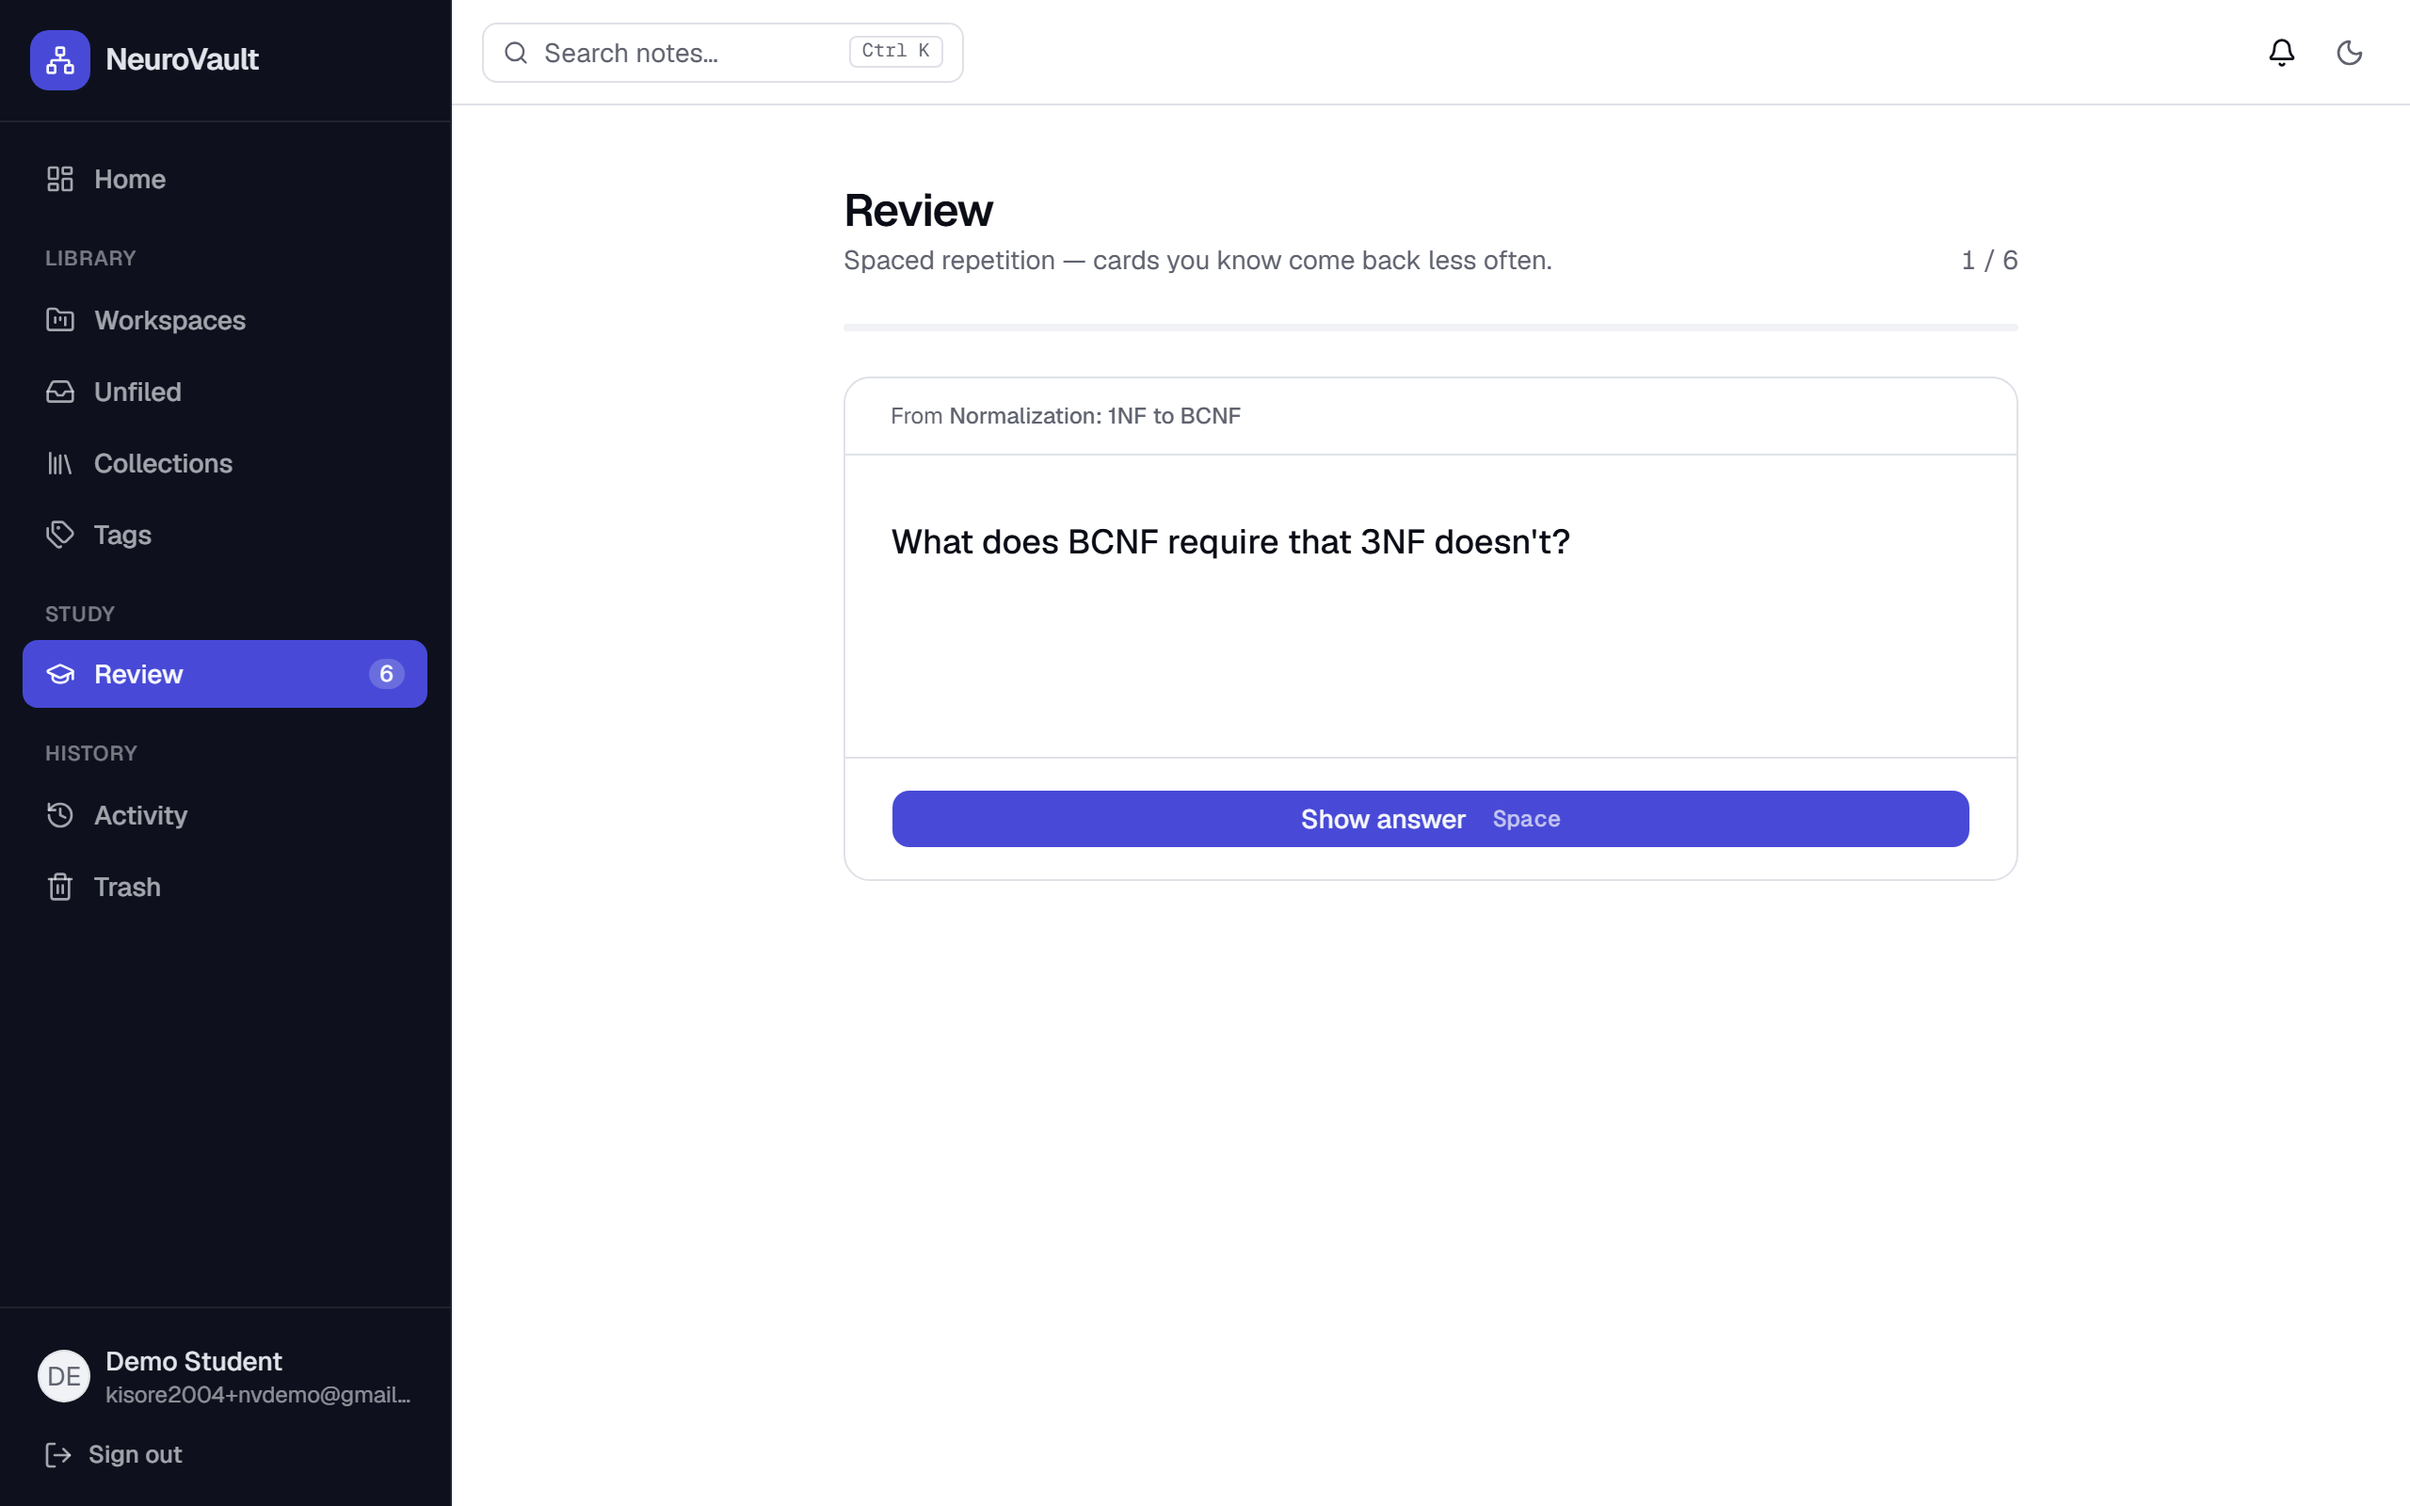
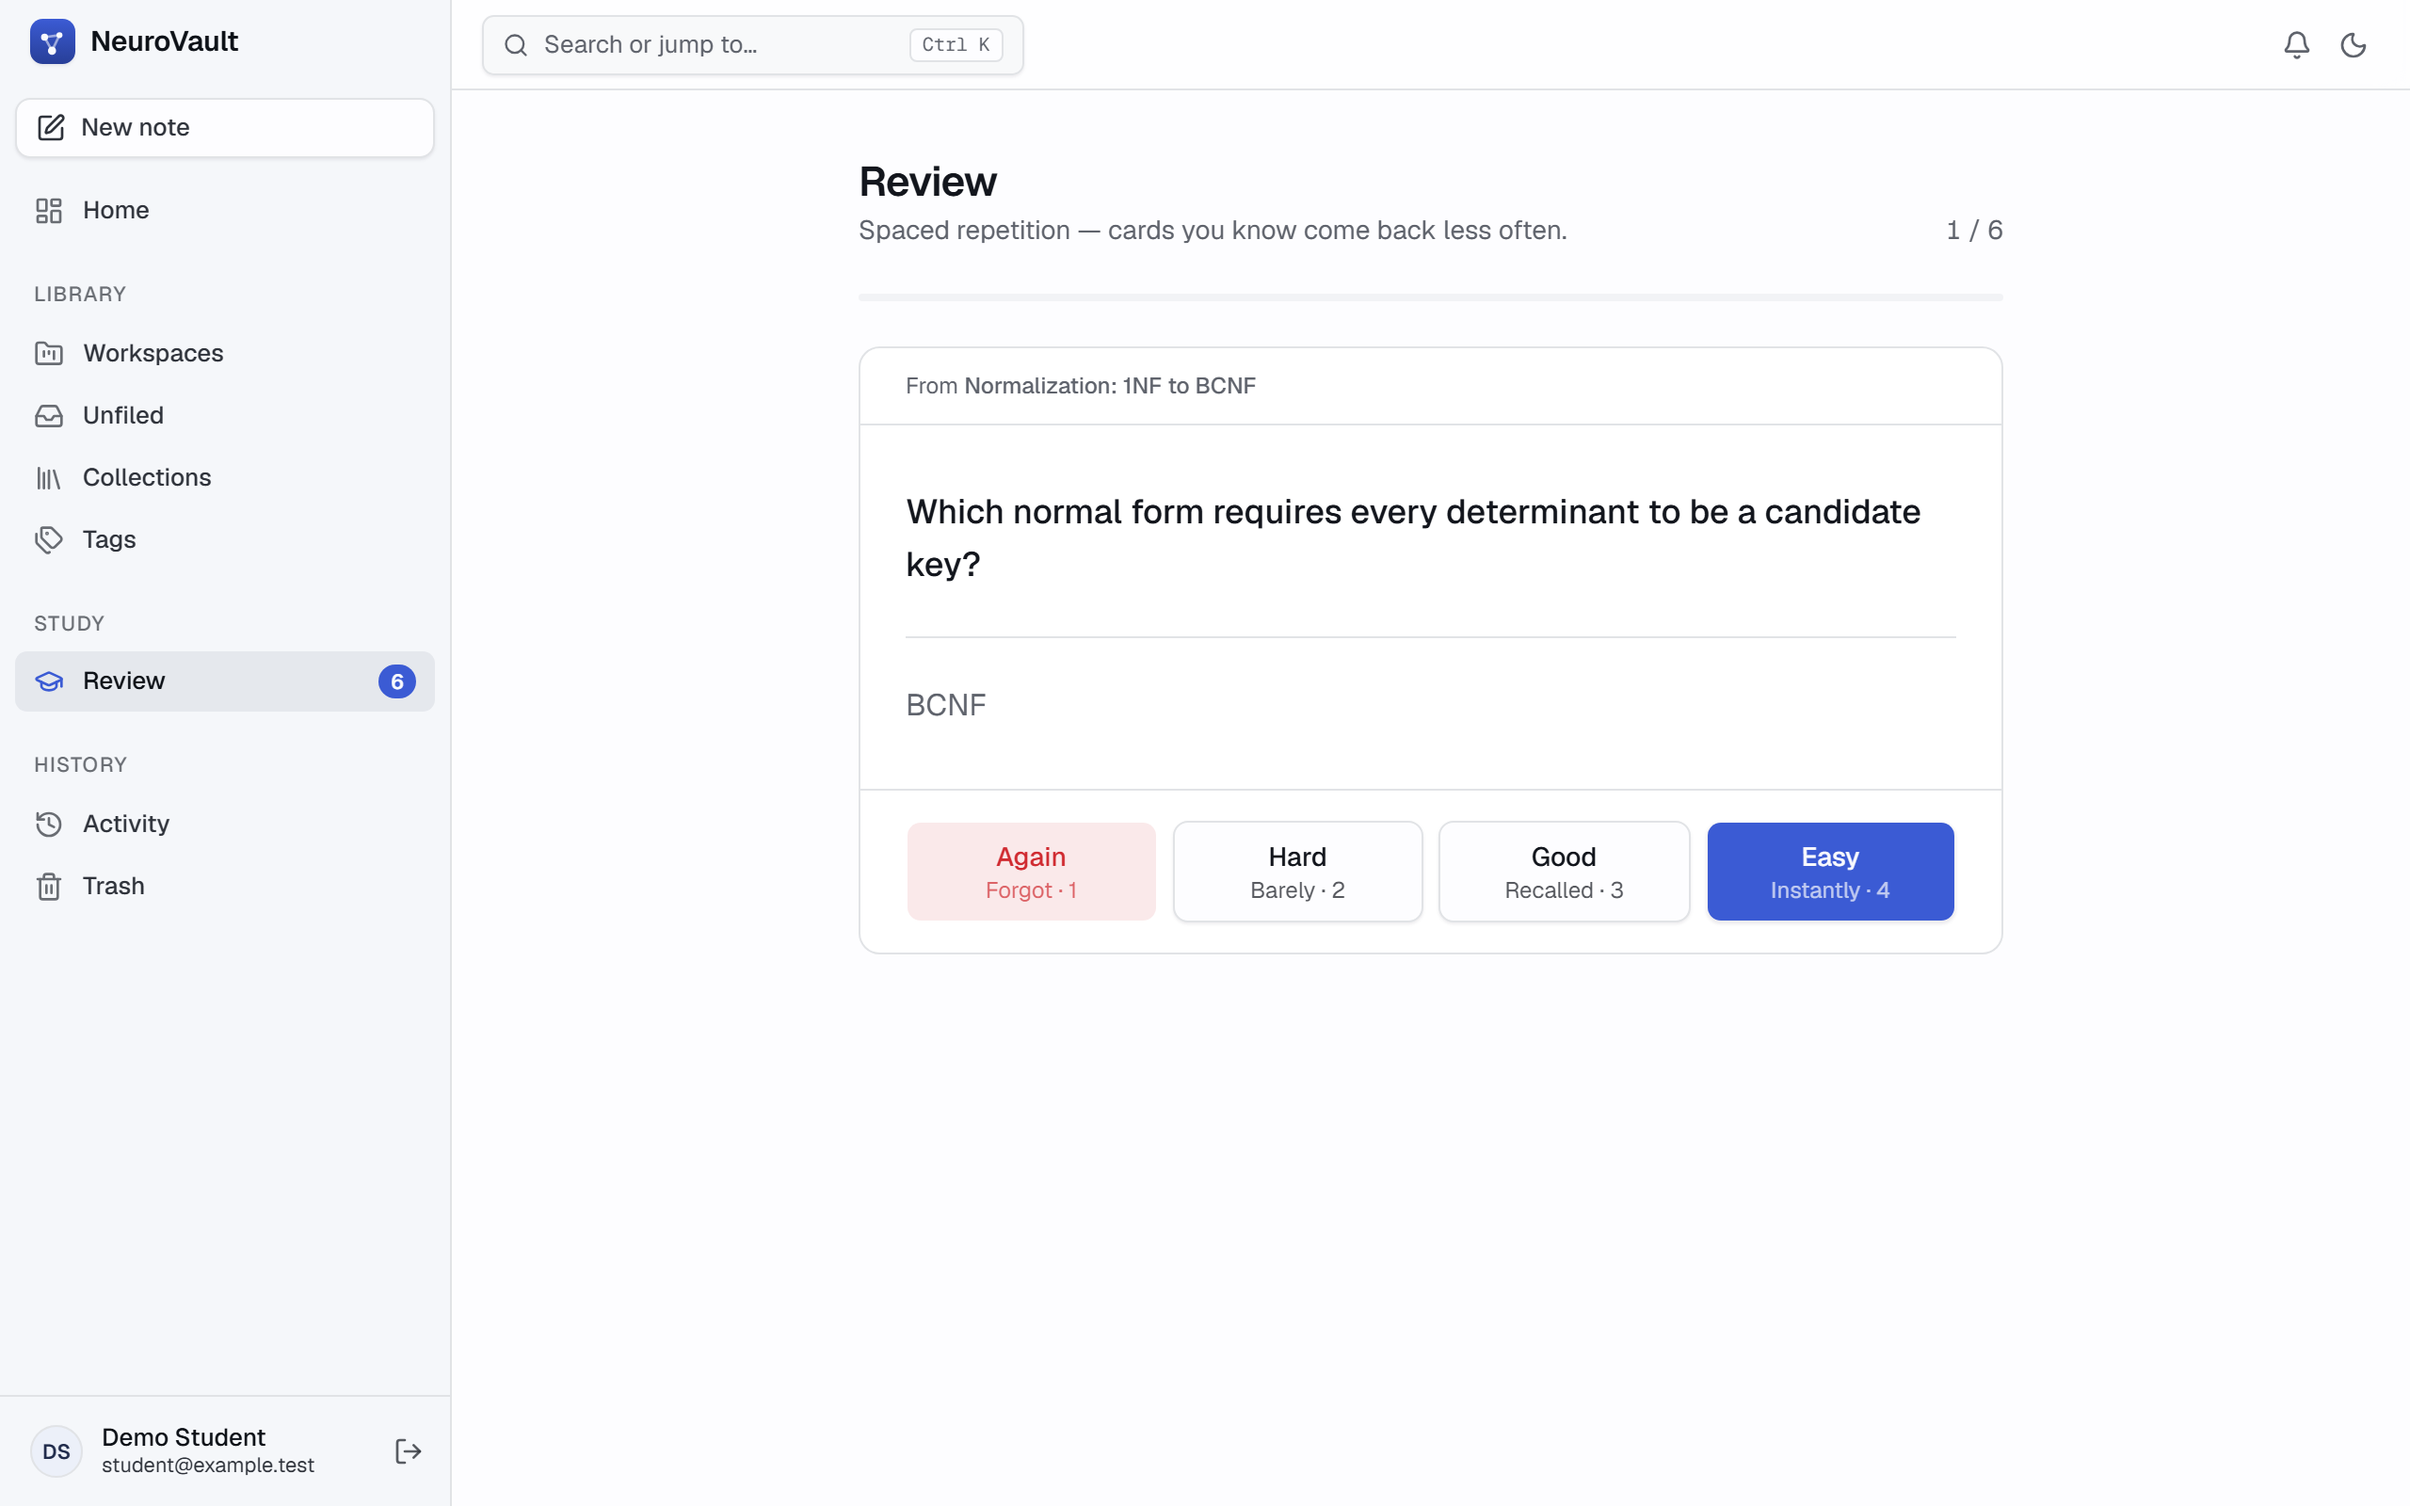
docs(readme): new screenshots and the refreshed interface
The screenshots still showed the old dark sidebar. Retaken from the
production build at 1280x800 @2x with sample DBMS notes (served by a
seeded fake API, since the demo account's credentials were no longer
available): home, a note with tags, typed links and a [[wiki-link]],
the graph with a 4-hop shortest path, the command palette, and review.

Text: captions updated, a note on how the screenshots were made, and the
feature list now covers the document-style editor, New note, the richer
home page, and the light/dark design system checked for AA contrast.

diff --git a/README.md b/README.md
@@ -25,18 +25,21 @@ version history and an audit log written by triggers, ranked full-text search on
 index, graph traversal as a database function, and row level security as the last line of
 defence.
 
-![Dashboard: totals, most-connected notes and recent edits, computed by database views](docs/screenshots/dashboard.png)
+![Home: a summary strip, hub notes ranked by links, unlinked notes and recent edits, computed by database views](docs/screenshots/dashboard.png)
 
 <table>
   <tr>
-    <td width="50%"><img src="docs/screenshots/note.png" alt="A note with tags, typed links and flashcards"><br><sub><b>Note</b>: tags, typed links in both directions, flashcards</sub></td>
+    <td width="50%"><img src="docs/screenshots/note.png" alt="A note with tags, typed links, a wiki-link and flashcards"><br><sub><b>Note</b>: tags, typed links in both directions, a <code>[[wiki-link]]</code>, flashcards</sub></td>
     <td width="50%"><img src="docs/screenshots/graph.png" alt="Graph view with a shortest path highlighted"><br><sub><b>Graph</b>: breadth-first search in PL/pgSQL, shortest path highlighted</sub></td>
   </tr>
   <tr>
-    <td width="50%"><img src="docs/screenshots/search.png" alt="Search dialog with highlighted matches"><br><sub><b>Search</b>: ranked full-text search on a GIN index, matches highlighted</sub></td>
+    <td width="50%"><img src="docs/screenshots/search.png" alt="Command palette with highlighted search matches"><br><sub><b>Command palette</b>: ranked full-text search on a GIN index, matches highlighted</sub></td>
     <td width="50%"><img src="docs/screenshots/review.png" alt="Flashcard review session"><br><sub><b>Review</b>: SM-2 spaced repetition</sub></td>
   </tr>
 </table>
+
+<sub>Screenshots are the production build with sample DBMS notes, light theme. Every screen
+also has a dark theme.</sub>
 
 ## Contents
 
@@ -58,7 +61,11 @@ defence.
 ## Features
 
 **Write and organise**
-- Rich-text editor (Tiptap) with autosave, pinning, and a public/private toggle per note
+- Rich-text editor (Tiptap) in a distraction-free document layout: a toolbar that stays in
+  view, autosave with a visible saved/unsaved state, Ctrl+S, pinning, and a public/private
+  toggle per note
+- **New note** from the sidebar, the home page or the command palette: one click to a
+  blank page, filed later
 - Workspaces → notebooks → notes, plus tags and **collections** (hand-picked, ordered
   lists that can span notebooks)
 - **Version history** for every real edit, with one-click restore — and restores are
@@ -82,12 +89,15 @@ defence.
   keyboard-first review screen
 
 **Stay oriented**
-- **Home dashboard**: totals, your most-connected notes, notes not linked to anything yet,
-  and recent edits
+- **Home dashboard**: a summary strip, your most-connected notes (with how linked each one
+  is), notes not linked to anything yet, recent edits, and a one-click way into today's
+  review
 - **Activity timeline** of what changed, and **notifications** when someone links to your
   public note
-- Email/password or Google/GitHub sign-in, password reset by email, avatar upload,
-  light/dark theme
+- Email/password or Google/GitHub sign-in, password reset by email, avatar upload
+- **Designed light and dark themes**, following the system setting or your choice; a
+  consistent design system (tokens for colour, spacing and elevation) across every screen,
+  checked for WCAG 2.1 AA contrast
 - **Your data is yours**: export everything as one JSON file, or delete the account and
   all of it permanently
 - Works on phones (the sidebar becomes a slide-in menu); Move to Trash comes with Undo
@@ -452,7 +462,8 @@ endpoint list and error conventions: **[`docs/api-reference.md`](docs/api-refere
 │   └── Dockerfile              dev image, and the production stage Render builds
 ├── frontend/
 │   ├── src/app/                App Router pages
-│   ├── src/components/         editor (incl. wiki-links), graph, search, account, ui (shadcn)
+│   ├── src/app/globals.css     design tokens: colour, radius, elevation, both themes
+│   ├── src/components/         editor (incl. wiki-links), graph, search, account, logo, ui (shadcn)
 │   ├── src/hooks/              one TanStack Query hook module per resource
 │   └── e2e/                    Playwright + axe tests, with an in-memory fake backend
 ├── docs/                       design docs, ADRs, API reference, deployment guide
